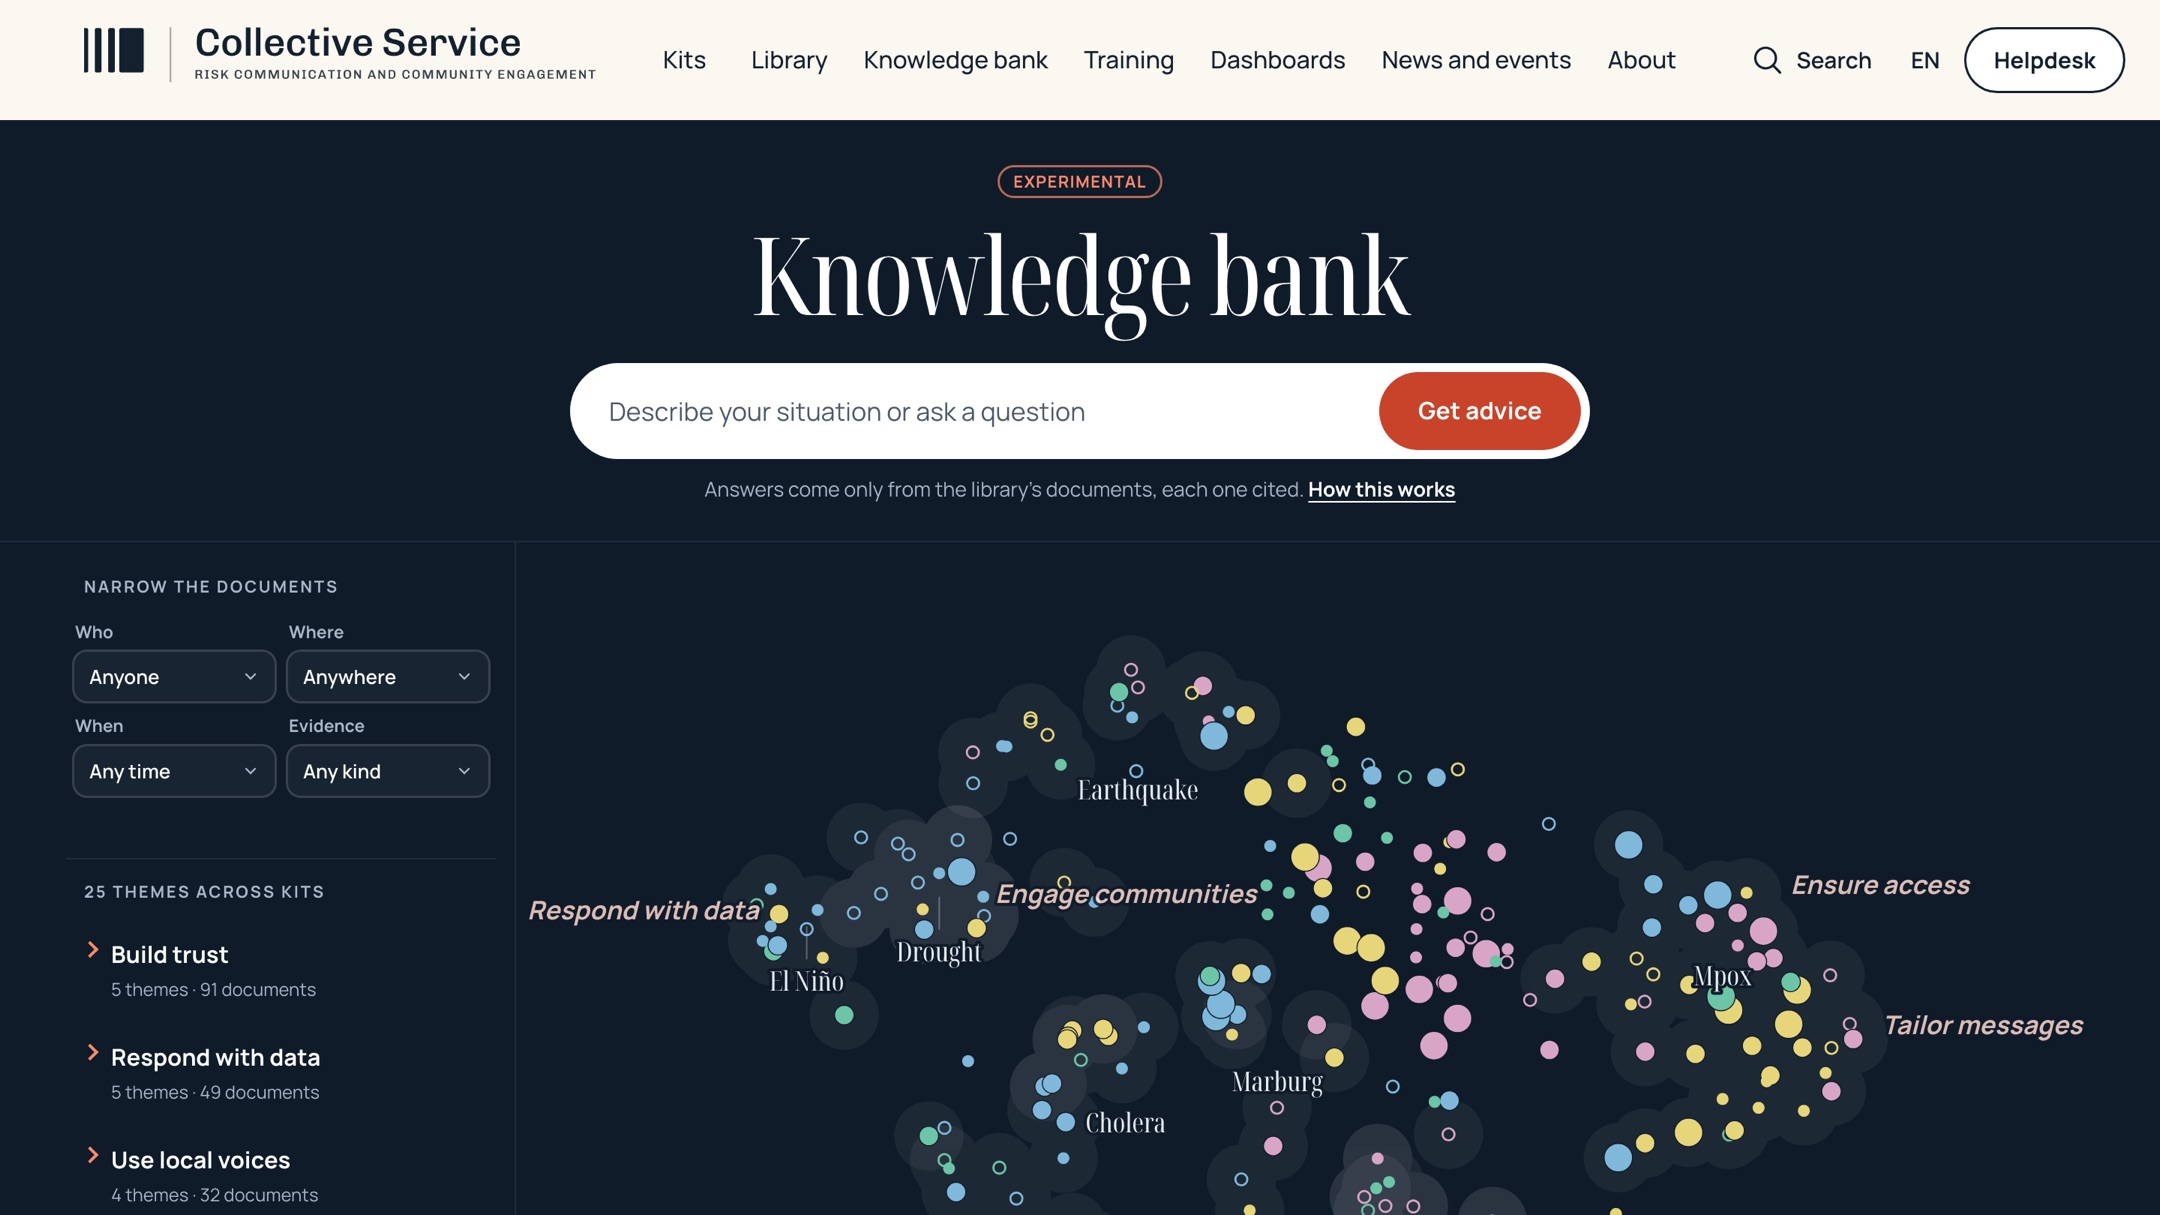
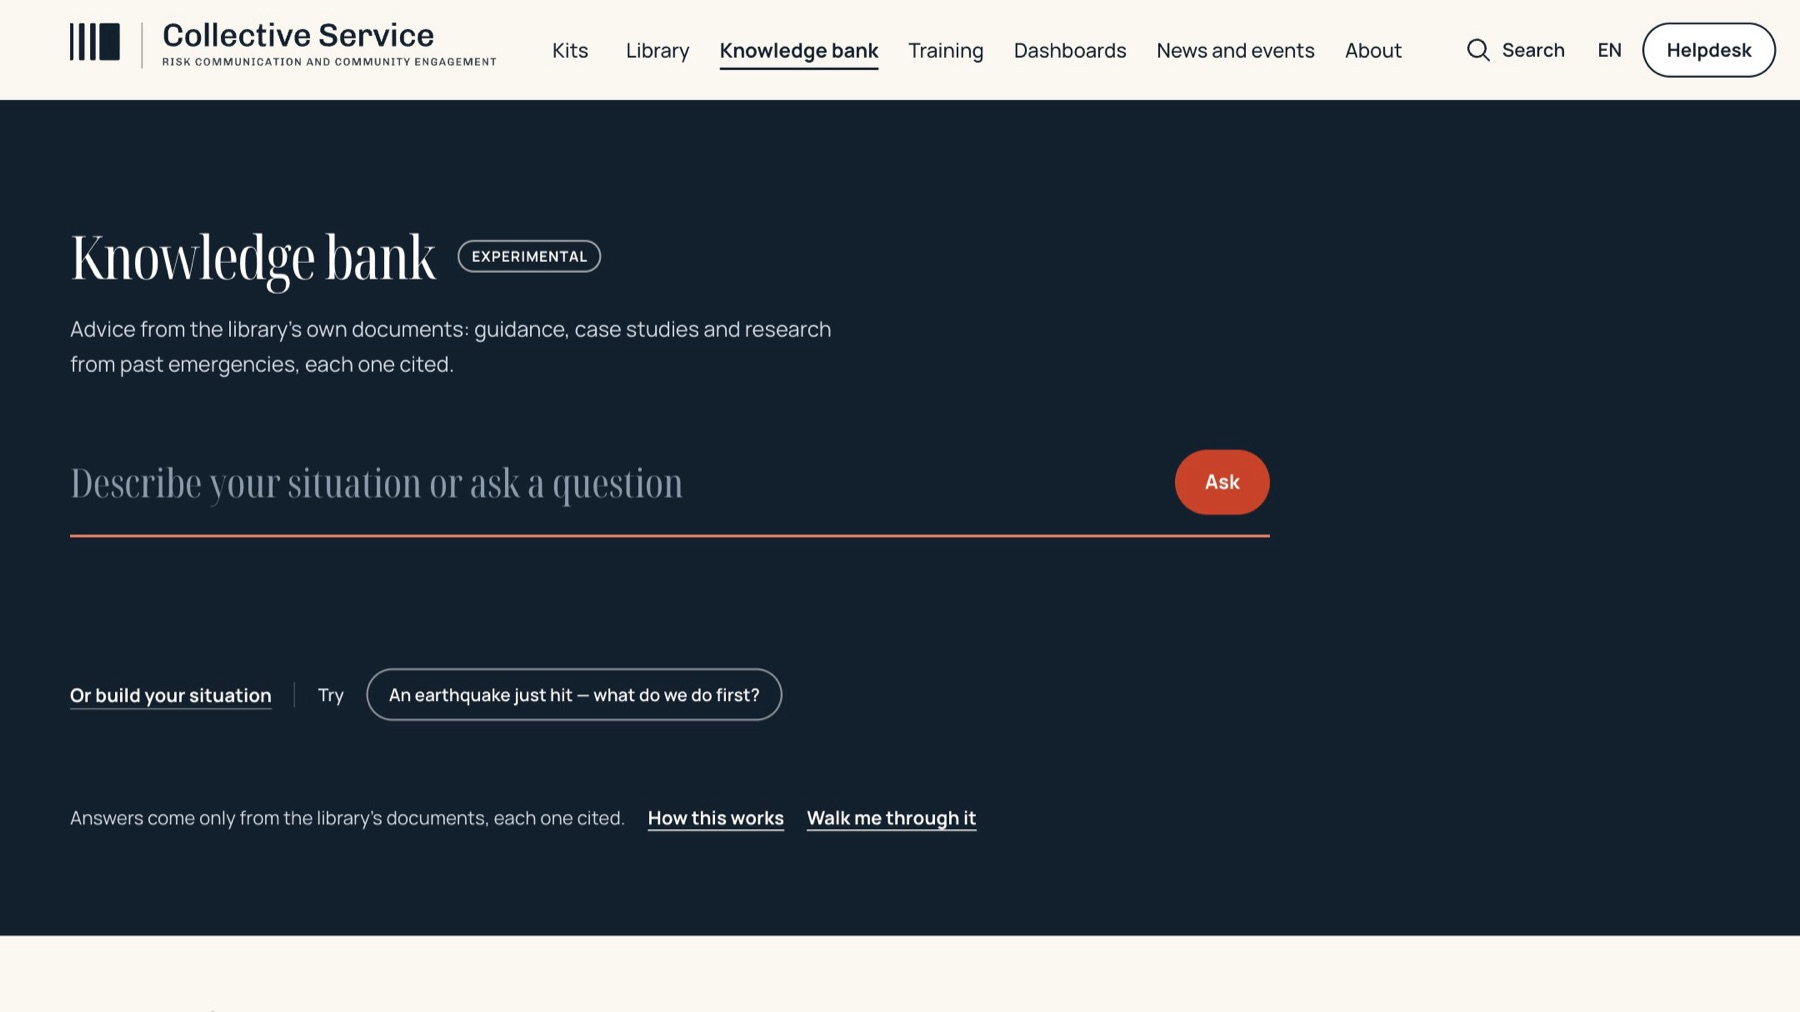
Fresh screenshots from the new Collective Service site
The work card is the home hero with no menu bar, matching the Foundation's. The case
study image is the current Knowledge bank page. Agency names are left out of every
shot, under the client naming rules. Image drift eased so nothing crops at the edges.

diff --git a/components/Motion.tsx b/components/Motion.tsx
@@ -166,7 +166,7 @@ export default function Motion({ view }: { view: string }) {
       if (kind === "img") {
         make(element, [{ clipPath: "inset(100% 0 0 0)" }, { clipPath: "inset(0% 0 0 0)" }], { duration: 2100, easing: EW });
         const layer = element.querySelector(".px");
-        if (layer) make(layer, [{ scale: "1.5" }, { scale: "1.12" }], { duration: 3200, easing: EO });
+        if (layer) make(layer, [{ scale: "1.4" }, { scale: "1.06" }], { duration: 3200, easing: EO });
       }
       made.set(element, list);
     };

diff --git a/app/globals.css b/app/globals.css
@@ -883,7 +883,7 @@ body {
   position: absolute;
   inset: 0;
   display: block;
-  scale: 1.12;
+  scale: 1.06;
 }
 .work-image img {
   transition: scale 1.6s cubic-bezier(0.16, 1, 0.3, 1);
